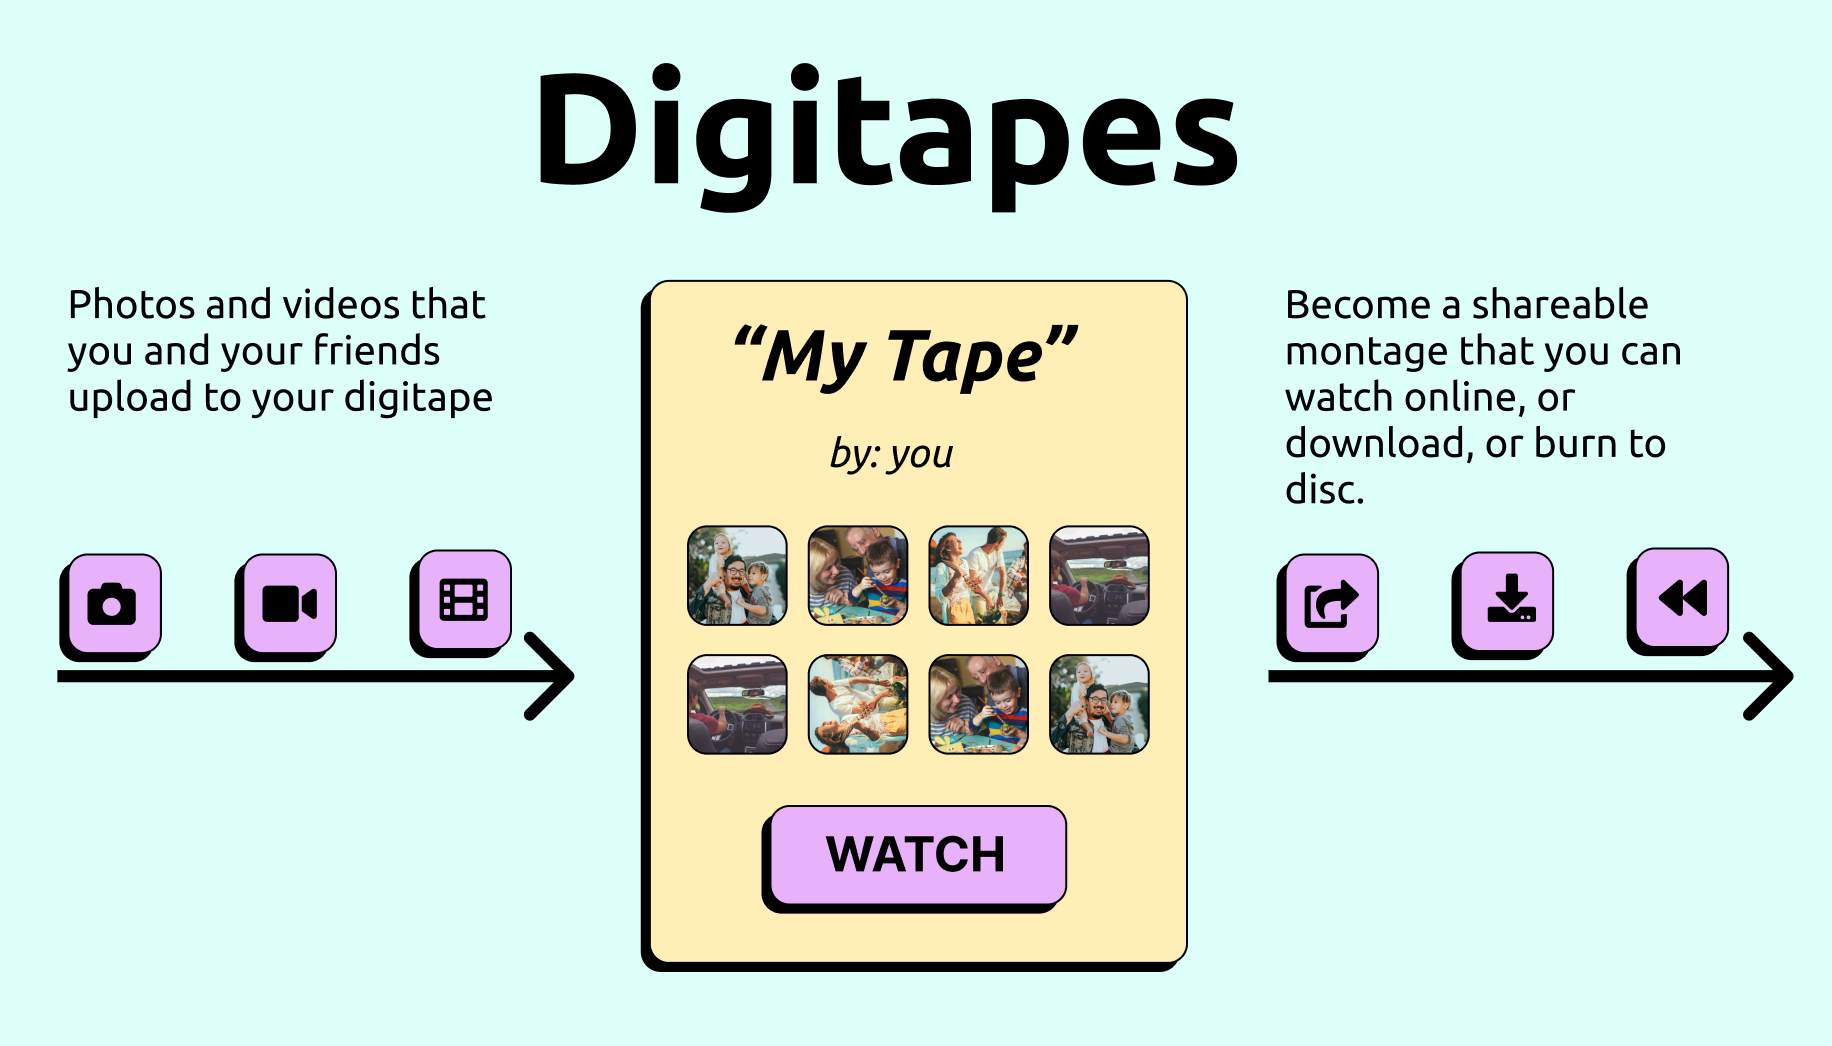
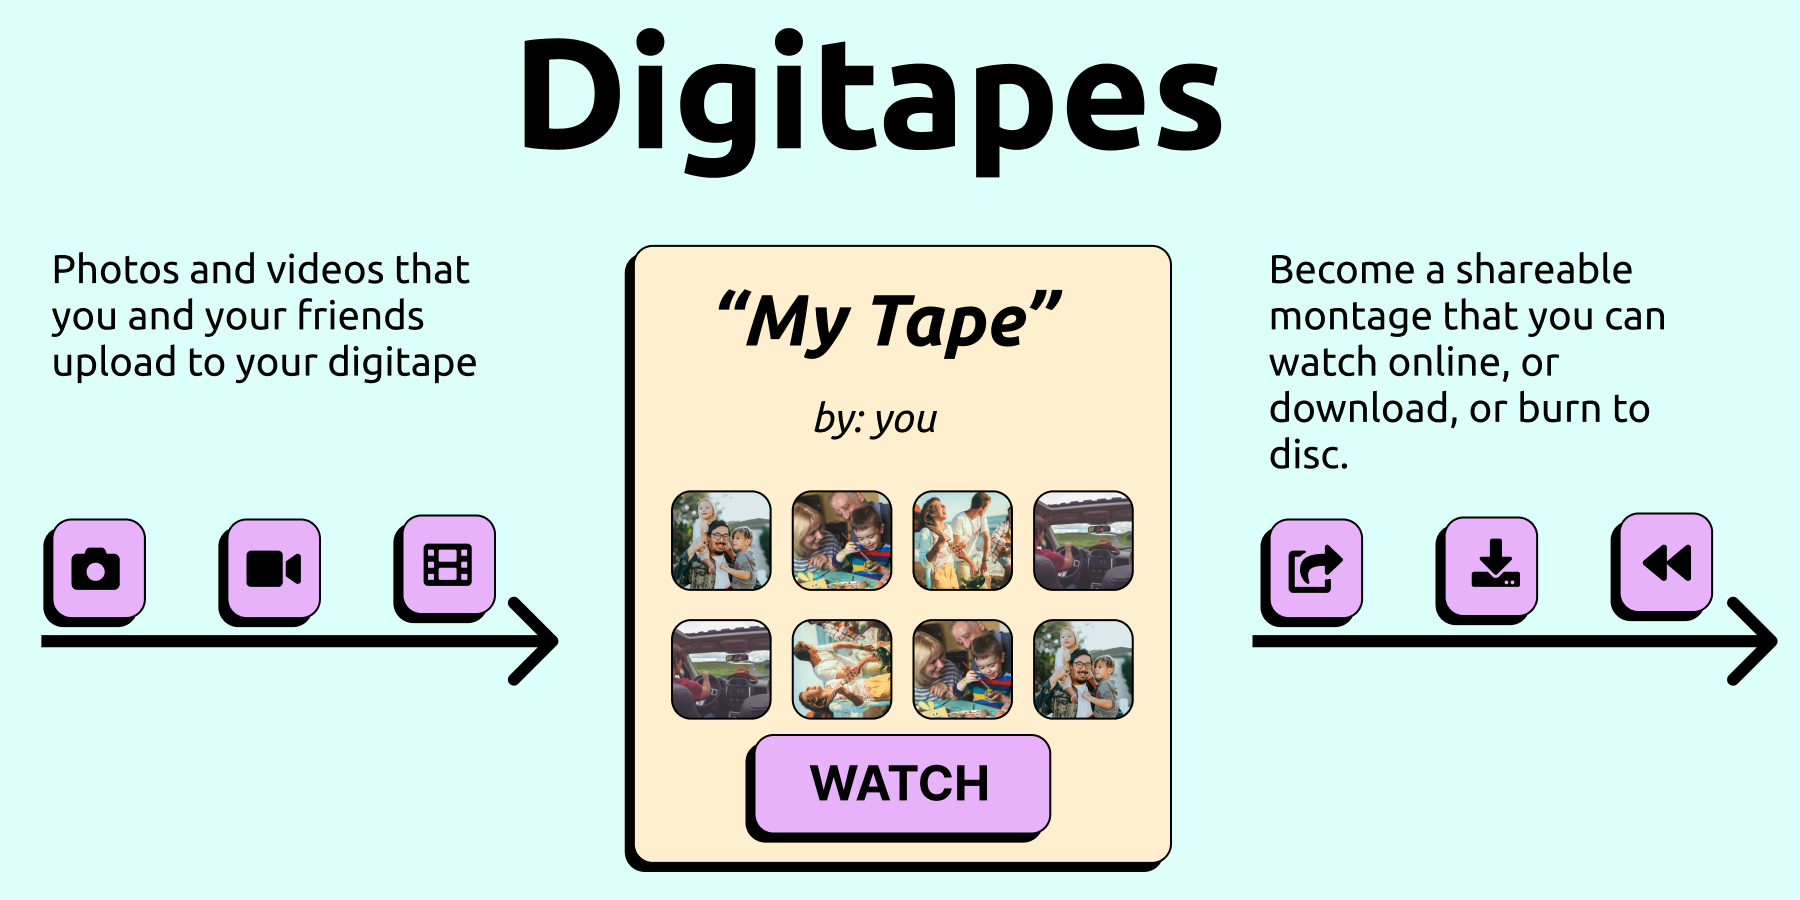
Add some documentation for digitapes format
This documentation can help others understand what digitapes is and
allow others to contribute improvements to it

Also improve static site

diff --git a/public/index.html b/public/index.html
@@ -8,24 +8,86 @@
   <link rel="preconnect" href="https://fonts.googleapis.com">
   <link rel="preconnect" href="https://fonts.gstatic.com" crossorigin>
   <link href="https://fonts.googleapis.com/css2?family=Ubuntu:ital,wght@0,300;0,400;0,500;0,700;1,300;1,400;1,500;1,700&display=swap" rel="stylesheet">
+  <!-- opengraph -->
+  <meta property="og:title" content="Open source personal media system" />
+  <meta property="og:type" content="website" />
+  <meta property="og:image" content="https://digitapes.app/how-marketing.png" />
+  <meta property="og:url" content="https://digitapes.app" />
+
 </head>
 <body>
   <img src="how-marketing.png"></img>
   <div class="center">
-    <p>Digitapes is an open-source, open-design, personal media and montage system to protect and cherish your favourite memories.</p>
+    <p>Digitapes is an open-source, open-design, personal media system to 
+    protect and cherish your favourite memories.</p>
 
-    <p>By establishing a "digitapes standard" - any digitapes compatible services can be used to create, store, transmit, preserve, montage or print out your photo and video albums from your phone.</p>
+    <p>By establishing a <em>"digitapes standard"</em> - any digitapes compatible services can 
+    be used to create, store, transmit, preserve, montage or print out your photo and 
+    video albums from your phone.</p>
 
-    <h3> The digitapes system </h3>
-    <p>
-    You can create and store a digitape anywhere, then use it for any compatible service. We are currently building a phone app for easy "share to" functionality, as well as DIY roll-it-yourself storage options.
+    <p> You can get involved by checking out our github repository, where the code
+    and discussions take place.
     </p>
+    <a href="https://github.com/dotrar/digitapes"> Digitapes Github </a>
+
+    <h2> The digitapes system </h2>
     <p>
-    There is also the possibility for you to run a digitape service for others.
+    You can create and store a digitape anywhere, then use it for any compatible service. 
+    We are currently building a phone app for easy "share to" functionality, as well as 
+    DIY roll-it-yourself storage options.
+    </p>
+
+    <p>
+    With just the open source app and DIY-storage, you and your friends can all share 
+    photos and videos of a holiday together, just like you'd share photos in messenger. 
+    That digitape can then be sent to a photo-album service to be made into a physical 
+    thing, or a simple online montage service will put it to music and upload it to 
+    youtube. Easy as the click of a button.
+    </p>
+
+    <h2>Interconnecting services</h2>
+    <p>
+    There is also the possibility for you to run a digitape service for others. 
+    For example:
     </p>
     <ul>
-      <li>s</li>
+      <li>Once you create a digitape, you could send it to some digital archival 
+        service, who could burn it onto DVD for you.</li>
+      <li>There could also be a service that would turn all your historic photos
+        and videos into a digitape.</li>
+      <li>A service could take a digitape and turn it into a montage to host it 
+        on youtube.</li>
+      <li>A different service might make the same digitape into a slideshow that 
+        you can share with friends and family.</li>
     </ul>
+
+    <p> The goal of Digitapes is to provide a standard protocol that interconnecting 
+    systems can interact with. This means
+    A tape produced from one service can be used in any other service. The data is 
+    yours and should not be locked into any particular offering.
+    </p>
+
+    <h2> Why digitapes </h2>
+    <p> Digitapes exists for two reasons:</p>
+    <ul>
+      <li> To make it easier to create and share photo albums, with others, that are 
+        about a particular topic. </li>
+      <li> To make it easier to use and preserve those photo albums, in creating and 
+        sharing things such as montages, photo albums, digital archives, and the like.
+      </li>
+    </ul>
+    <p> Digitapes arose from finding it difficult to correlate photos based on a topic 
+    (such as a birth of a child, or a family holiday) across
+    different devices and different cloud services.</p>
+    <p> Many phone services (such as Google Photos, or iCloud) work on a "camera roll" 
+    principle: every photo you take is stored, and later, catergorised into certain 
+    topics. This can lead to false positives (ie: wrong images making their way into 
+    albums) and also includes vendor lock in with the cloud provider.</p>
+    <p>
+    After digging out some old super-8 and VHS tapes from the attic and watching 
+    childhood memories, we've realised that we need a similar open standard that can 
+    preserve and collate photos and video from our current generation, into the future.
+    </p>
 
   </div>
 </body>

diff --git a/public/style.css b/public/style.css
@@ -7,7 +7,7 @@
     /* Teal Green background */
     --b-bg-1: #DCFFF9; 
     /* Pale Yellow background */
-    --b-bg-2: #FFEFB5;
+    --b-bg-2: #FFEFCF;
     /* Purple call to action */
     --b-link: #E7B2FA;
     /* Red Warning */
@@ -57,7 +57,7 @@ div,aside {
     border-radius: var(--border-radius);
     margin-bottom: 1rem;
     gap: 0.5rem;
-    padding: 0.5rem;
+    padding: 2rem;
 } 
 @media screen and (max-width: 600px) {
      .tape > a > span {
@@ -119,6 +119,9 @@ div > a {
     /* Card Controls
      */
     text-align: center;
+    width: 50%;
+    margin: 0 auto;
+    margin-bottom: 2rem;
 }
 div > a > i {
     /* font-awes */
@@ -245,7 +248,6 @@ a:not([class='nobtn']),button{
     text-align: center;
     padding: 1em 2em;
     font-size: 1rem;
-    margin: 0.5rem;
 }
 a,button{
     text-decoration: none;

diff --git a/docs/digitape.md b/docs/digitape.md
@@ -1,0 +1,32 @@
+# The digitape format
+
+* Digitapes (the system) uses `digitape` (the object) as the main source of information
+and data.
+
+* A digitape can be simply be thought of as an "album", or a zipfile, or a directory, with
+metadata attached, or otherwise in that same directory or zipfile.
+
+* Digitape can also be called just "tape" for short.
+
+* Tapes have two components: the "bulk" data, and the "ticket" which is the metadata.
+
+## Digitape Metadata
+
+A tape must provide `digitape.json` file, which provides information about the tape. This
+json file must have the following fields:
+
+* `title` - giving a name or a label to the tape.
+* `description` - describing the tape.
+* `updated_at` - the last time this tape was updated.
+* `media` - a list of media objects
+
+The media objects just have two fields that are required:
+
+* `file` - the location of the media
+* `crc32` - a checksum for integrity
+
+
+### Additional data
+
+Services that use digitapes can add their own additional data to the ticket, which can be
+used by other services to consume that data, but only the above should be expected.

diff --git a/simple-holding-service/README.md b/simple-holding-service/README.md
@@ -1,0 +1,43 @@
+# Simple holding service
+For digitapes.
+
+This python application comes in two parts:
+* The flask webserver
+* The CLI tool
+
+This should be enough to get someone started
+with making their own digitapes.
+
+## Flask Web server API
+
+The flask webserver is json based so that it
+can work with the digitapes app. 
+
+## CLI tool
+
+The CLI tool can be used in conjunction with
+the flask server, so that there is a way
+to manipulate the local storage of digitapes
+without needing the server running.
+
+
+# Storage
+
+We've implemented a `LocalStorage` plugin to use 
+the filesystem as a storage backend for this 
+holding service.
+
+One could easily make another plugin, for something
+like S3, or other cloud storage offerings.
+
+# Contributing
+
+Anyone can contribute, and we hope that this can be
+a good project for you to contribute to. Submit a PR!
+
+## TODO
+
+* Cloud storage (S3)
+* Application packaging (ie: `pipx install -e .`) for
+  easier use for non-python people
+* Authentication / Authorisation (in conjunction with app)

diff --git a/docs/holding-services.md b/docs/holding-services.md
@@ -1,0 +1,25 @@
+# Holding services
+
+A digitape has bits of data that must be stored somewhere. This can be stored
+locally, or online as part of a service. This forms a "holding service".
+
+
+It is an expectation of digitapes compatibility that any digitape from any source
+(as long as it adheres to the digitapes standard as defined in this repository)
+can be used on any digitapes compatible service.
+
+Likewise, the holding service can then be used to share the digitape in a secure
+way, to any service that consumes a digitape, such as a montage service.
+
+## Holding services API
+
+The holding service should atleast provide these features
+
+* a way to list what tapes a user has available
+* a way to get details about a tape
+* a way to create a tape
+* a way to add media to that tape
+* import tapes from other services
+* export tapes for other services
+
+

diff --git a/CONTRIBUTING.md b/CONTRIBUTING.md
@@ -1,0 +1,28 @@
+# CONTRIBUTING GUIDE
+
+We hope that digitapes is a great project
+that everyone can contribute to.
+
+## Stuff you can contribute:
+
+* Improvements or alternatives to the simple-holding-service
+* Improvements to the digitapes app
+* Tests, documentation
+* Better HTML / front-end code for the static site (in public/)
+* questions, discussions, and improvements in general
+
+
+## Commit guide
+
+We try to adhere to [atomic commits](https://dev.to/samuelfaure/how-atomic-git-commits-dramatically-increased-my-productivity-and-will-increase-yours-too-4a84)
+and useful git messages.
+
+If you're stuck writing git messages, try this as
+a template:
+```
+Capitalised sentence stating change
+
+Before this change ...
+
+Now ...
+```

diff --git a/README.md b/README.md
@@ -1,2 +1,24 @@
 # Digitapes
-Open Source montage album
+Open Source personal media album system
+
+## Why digitapes
+
+For more information about why you should care
+about digitapes, check out 
+[https://digitapes.app](https://digitapes.app)
+
+## GPL Licensing
+
+We have released all code and documentation in this
+repository as GPL license.
+
+This does not prevent you from making your own app or
+service closed source, unless you use the code in here
+as a basis.
+
+We are hoping that improvements can flow throughout the 
+digitapes ecosystem, and that this is a place to
+collect and provide those improvements so that new
+services can be started rapidly.
+
+

diff --git a/app/README.md b/app/README.md
@@ -1,16 +1,3 @@
-# digitapes
+# Digitapes mobile app
 
-A new Flutter project.
-
-## Getting Started
-
-This project is a starting point for a Flutter application.
-
-A few resources to get you started if this is your first Flutter project:
-
-- [Lab: Write your first Flutter app](https://docs.flutter.dev/get-started/codelab)
-- [Cookbook: Useful Flutter samples](https://docs.flutter.dev/cookbook)
-
-For help getting started with Flutter development, view the
-[online documentation](https://docs.flutter.dev/), which offers tutorials,
-samples, guidance on mobile development, and a full API reference.
+Flutter app to manage digitapes media on the move

diff --git a/app/TODO.md b/app/TODO.md
@@ -1,5 +1,5 @@
 # Still todo
 
 1. thumbnails
-    a. if not phone, allow open in exlporer
-    b. 
+2. remote connect (to simple-holding-service)
+3. allow uploads via macos / windows / linux

diff --git a/docs/README.md b/docs/README.md
@@ -1,0 +1,7 @@
+# Documentation
+
+This directory is used to store documentation
+about digitapes fundamentals. 
+
+
+* [what is a digitape](./digitape.md)
